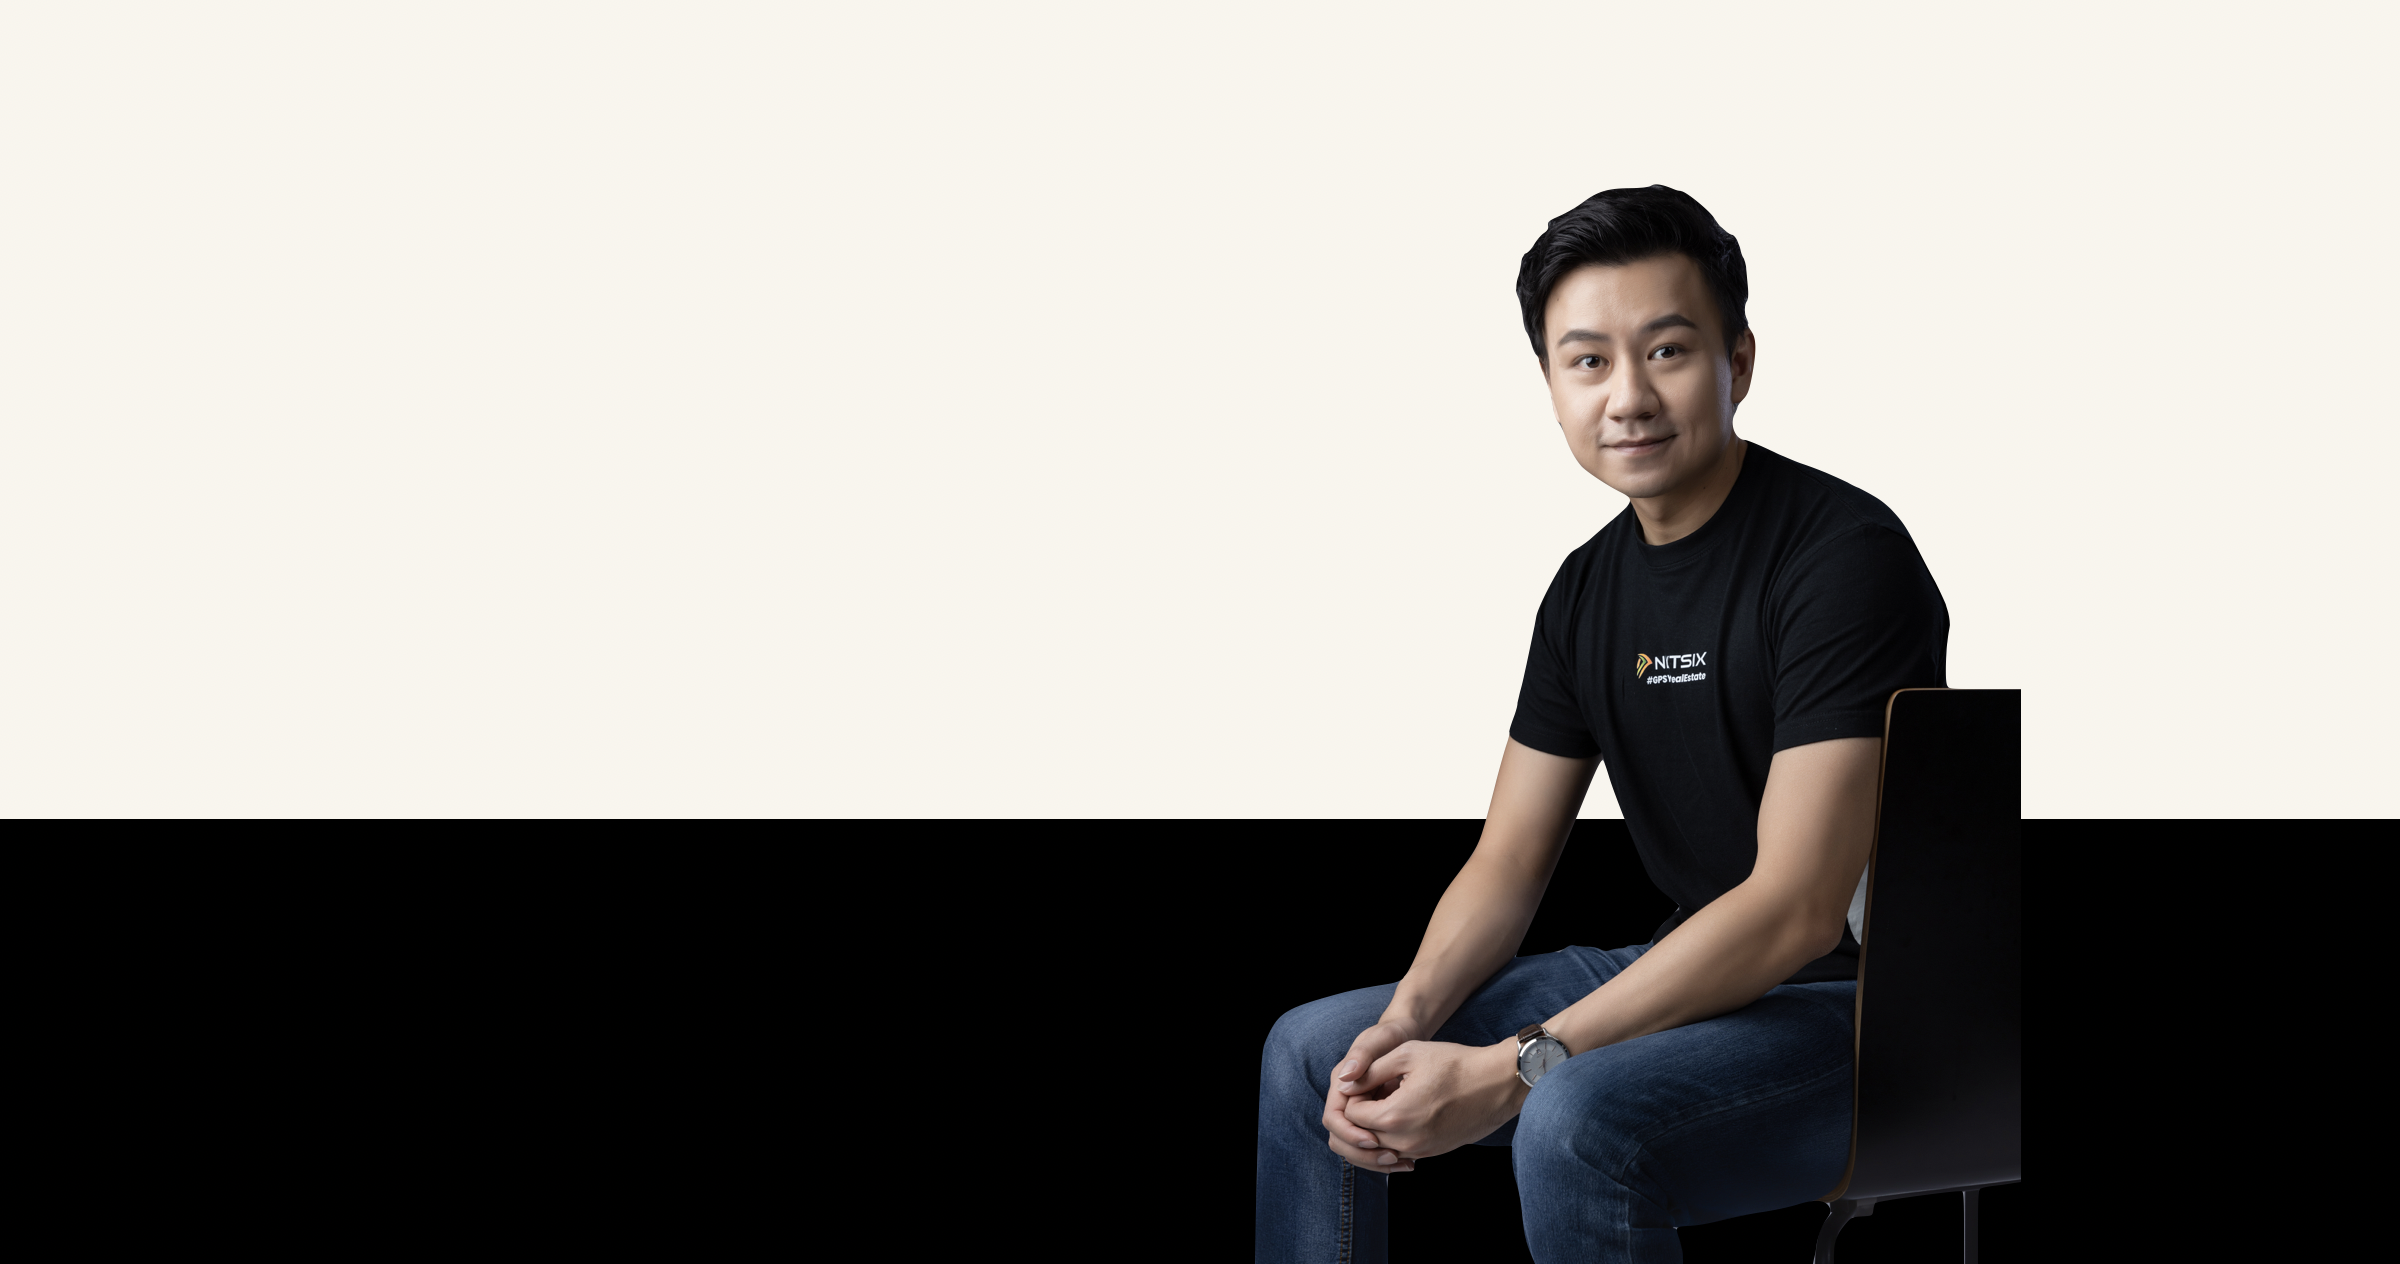
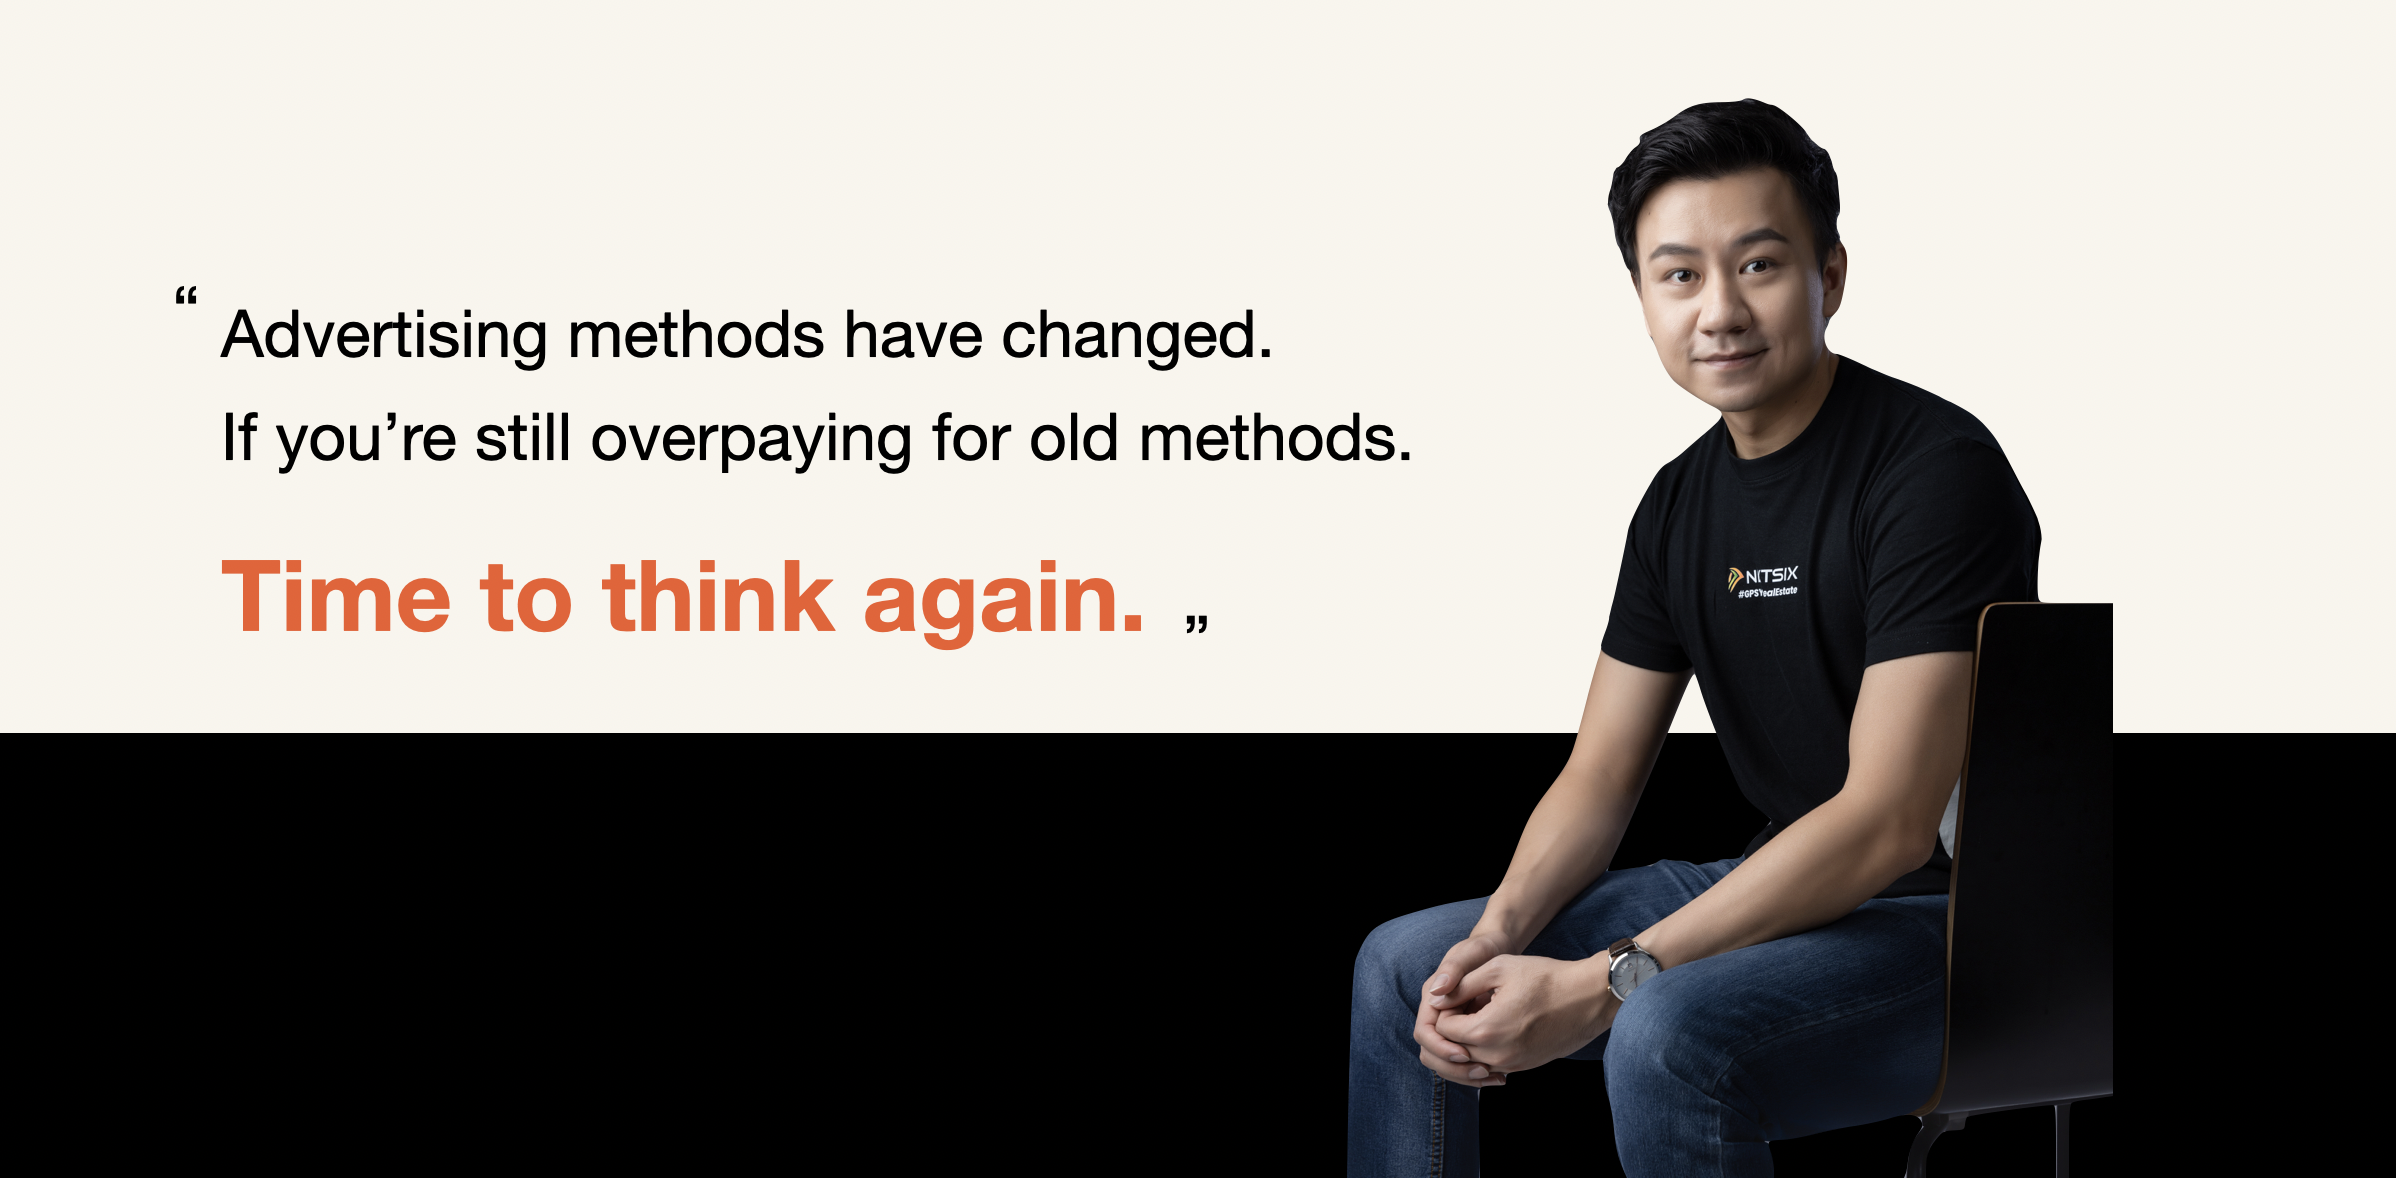
Refine homepage media spacing

diff --git a/styles.css b/styles.css
@@ -286,6 +286,10 @@ mark {
   border-bottom: 1px solid var(--line-dark);
 }
 
+.image-bridge {
+  margin-top: -1px;
+}
+
 .full-width-image img {
   display: block;
   width: 100%;
@@ -452,6 +456,14 @@ mark {
   .cta-section {
     padding-top: 72px;
     padding-bottom: 72px;
+  }
+
+  .why-section {
+    padding-bottom: 44px;
+  }
+
+  .closing-section {
+    padding-top: 44px;
   }
 
   .statement-number {

diff --git a/index.html b/index.html
@@ -58,7 +58,7 @@
         </div>
       </section>
 
-      <section class="story-section light-band" aria-labelledby="why-title">
+      <section class="story-section light-band why-section" aria-labelledby="why-title">
         <p class="section-kicker">Why I Started NEXTSIX</p>
         <div class="story-grid">
           <h2 id="why-title">
@@ -83,7 +83,7 @@
         </div>
       </section>
 
-      <figure class="full-width-image">
+      <figure class="full-width-image image-bridge">
         <img
           src="assets/demo-agent-img1.png"
           alt="NEXTSIX property advertising showcase"
@@ -142,7 +142,7 @@
         >
       </figure>
 
-      <section class="cta-section" aria-labelledby="cta-title">
+      <section class="cta-section closing-section" aria-labelledby="cta-title">
         <p class="section-kicker">Let's Build Something Meaningful</p>
         <h2 id="cta-title">If the work can help people make better property decisions, it matters.</h2>
         <button class="whatsapp-button" type="button" aria-label="Say hi on WhatsApp">
@@ -152,7 +152,7 @@
     </main>
 
     <footer class="site-footer">
-      <p>This is a website showcase built using AI - by Kwang</p>
+      <p>This is a website built using AI - by Kwang</p>
       <p>With zero coding knowledge. That's right.</p>
     </footer>
   </body>